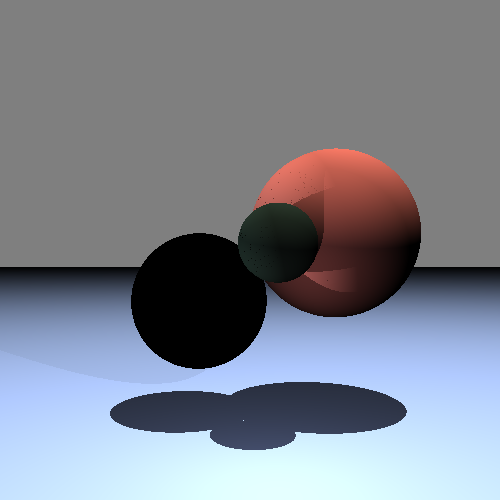
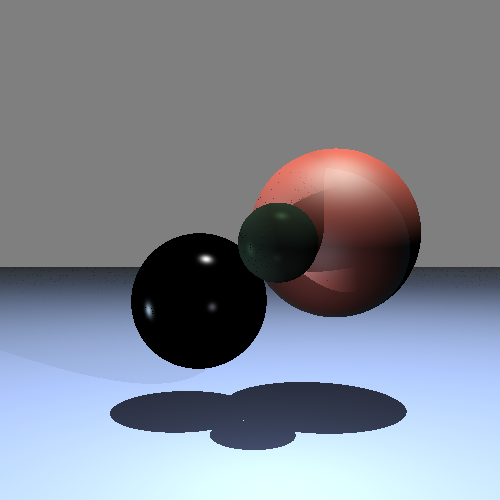
Specularity :white_check_mark:

diff --git a/src/RayTracing/Set.java b/src/RayTracing/Set.java
@@ -116,13 +116,13 @@ public class Set {
 		// second closest to the convenience of transparency calculation.
 		// => "get2ClosestIntersectionAndPrimitive" returns an array of 2 of PrimitiveAndIntersection.
 		PrimitiveAndIntersection pai = 
-				getClosestIntersectionAndPrimitive(ray); //by ref (please please work)
+				getClosestIntersectionAndPrimitive(ray);
 		
 		Vector closest_intersection = pai.intersection; 
 		Primitive closest_primitive = pai.primitive;
 		
 		//-- if intersection == null return bgcolor
-		if (closest_intersection == null)
+		if (closest_intersection == null || depth == max_recursion_lvl)
 			return bgcolor;
 			
 		Material m = closest_primitive.getMaterial();
@@ -158,9 +158,43 @@ public class Set {
 		return retColor;
 	}
 	 
-	private Color getSpecularColor(Primitive closest_primitive, Ray ray, Vector closest_intersection) {
-		// TODO Auto-generated method stub
-		return new Color(0,0,0);
+	private Color getSpecularColor(Primitive closest_primitive, Ray ray, Vector closest_intersection) 
+	{
+		Color retColor = new Color(0,0,0);
+		//-- compute R vector (reflect)
+		// 	R = (2L*N)N-L
+		try {
+			Color specColor = closest_primitive.getMaterial().getSpecularColor();
+			double specIntens = closest_primitive.getMaterial().getSpecularityCoeff(); 
+			Vector N = closest_primitive.normalAtIntersection(ray);
+			for (Light lit : lights)
+			{
+				//-- go back a little:
+				Vector go_back_a_little = new Vector(closest_intersection.substract(ray.getVector().timesScalar(Math.pow(10, -10))));//TODO: think about the correct timesScalar(?)
+
+				Vector L = lit.getOrigin().substract(go_back_a_little);
+				Ray r = new Ray(go_back_a_little, L);
+				
+				if (!firstHit(r, lit)) //if in the shadow: take account for shadow intensity.
+				{
+					continue;
+				}
+				
+				//-- compute R vector (reflect)
+				// 	R = (2L*N)N-L
+				double two_L_dot_N = 2*L.dotProduct(N);
+				Vector R = N.timesScalar(two_L_dot_N).substract(L).toUnit();
+				Vector V = ray.getVector().timesScalar(-1).toUnit();
+				double directionalIntensity = Math.pow(R.dotProduct(V), specIntens);
+				Color litEffect = specColor.multiply(lit.getColor()).scalarMultipy(directionalIntensity);
+				
+				retColor = retColor.add(litEffect);
+			}
+		} catch (RayTracerException e) {
+			// TODO Auto-generated catch block
+			e.printStackTrace();
+		}
+		return retColor;
 	}
 
 	private Color getTransparencyColor(Ray ray, int depth) {
